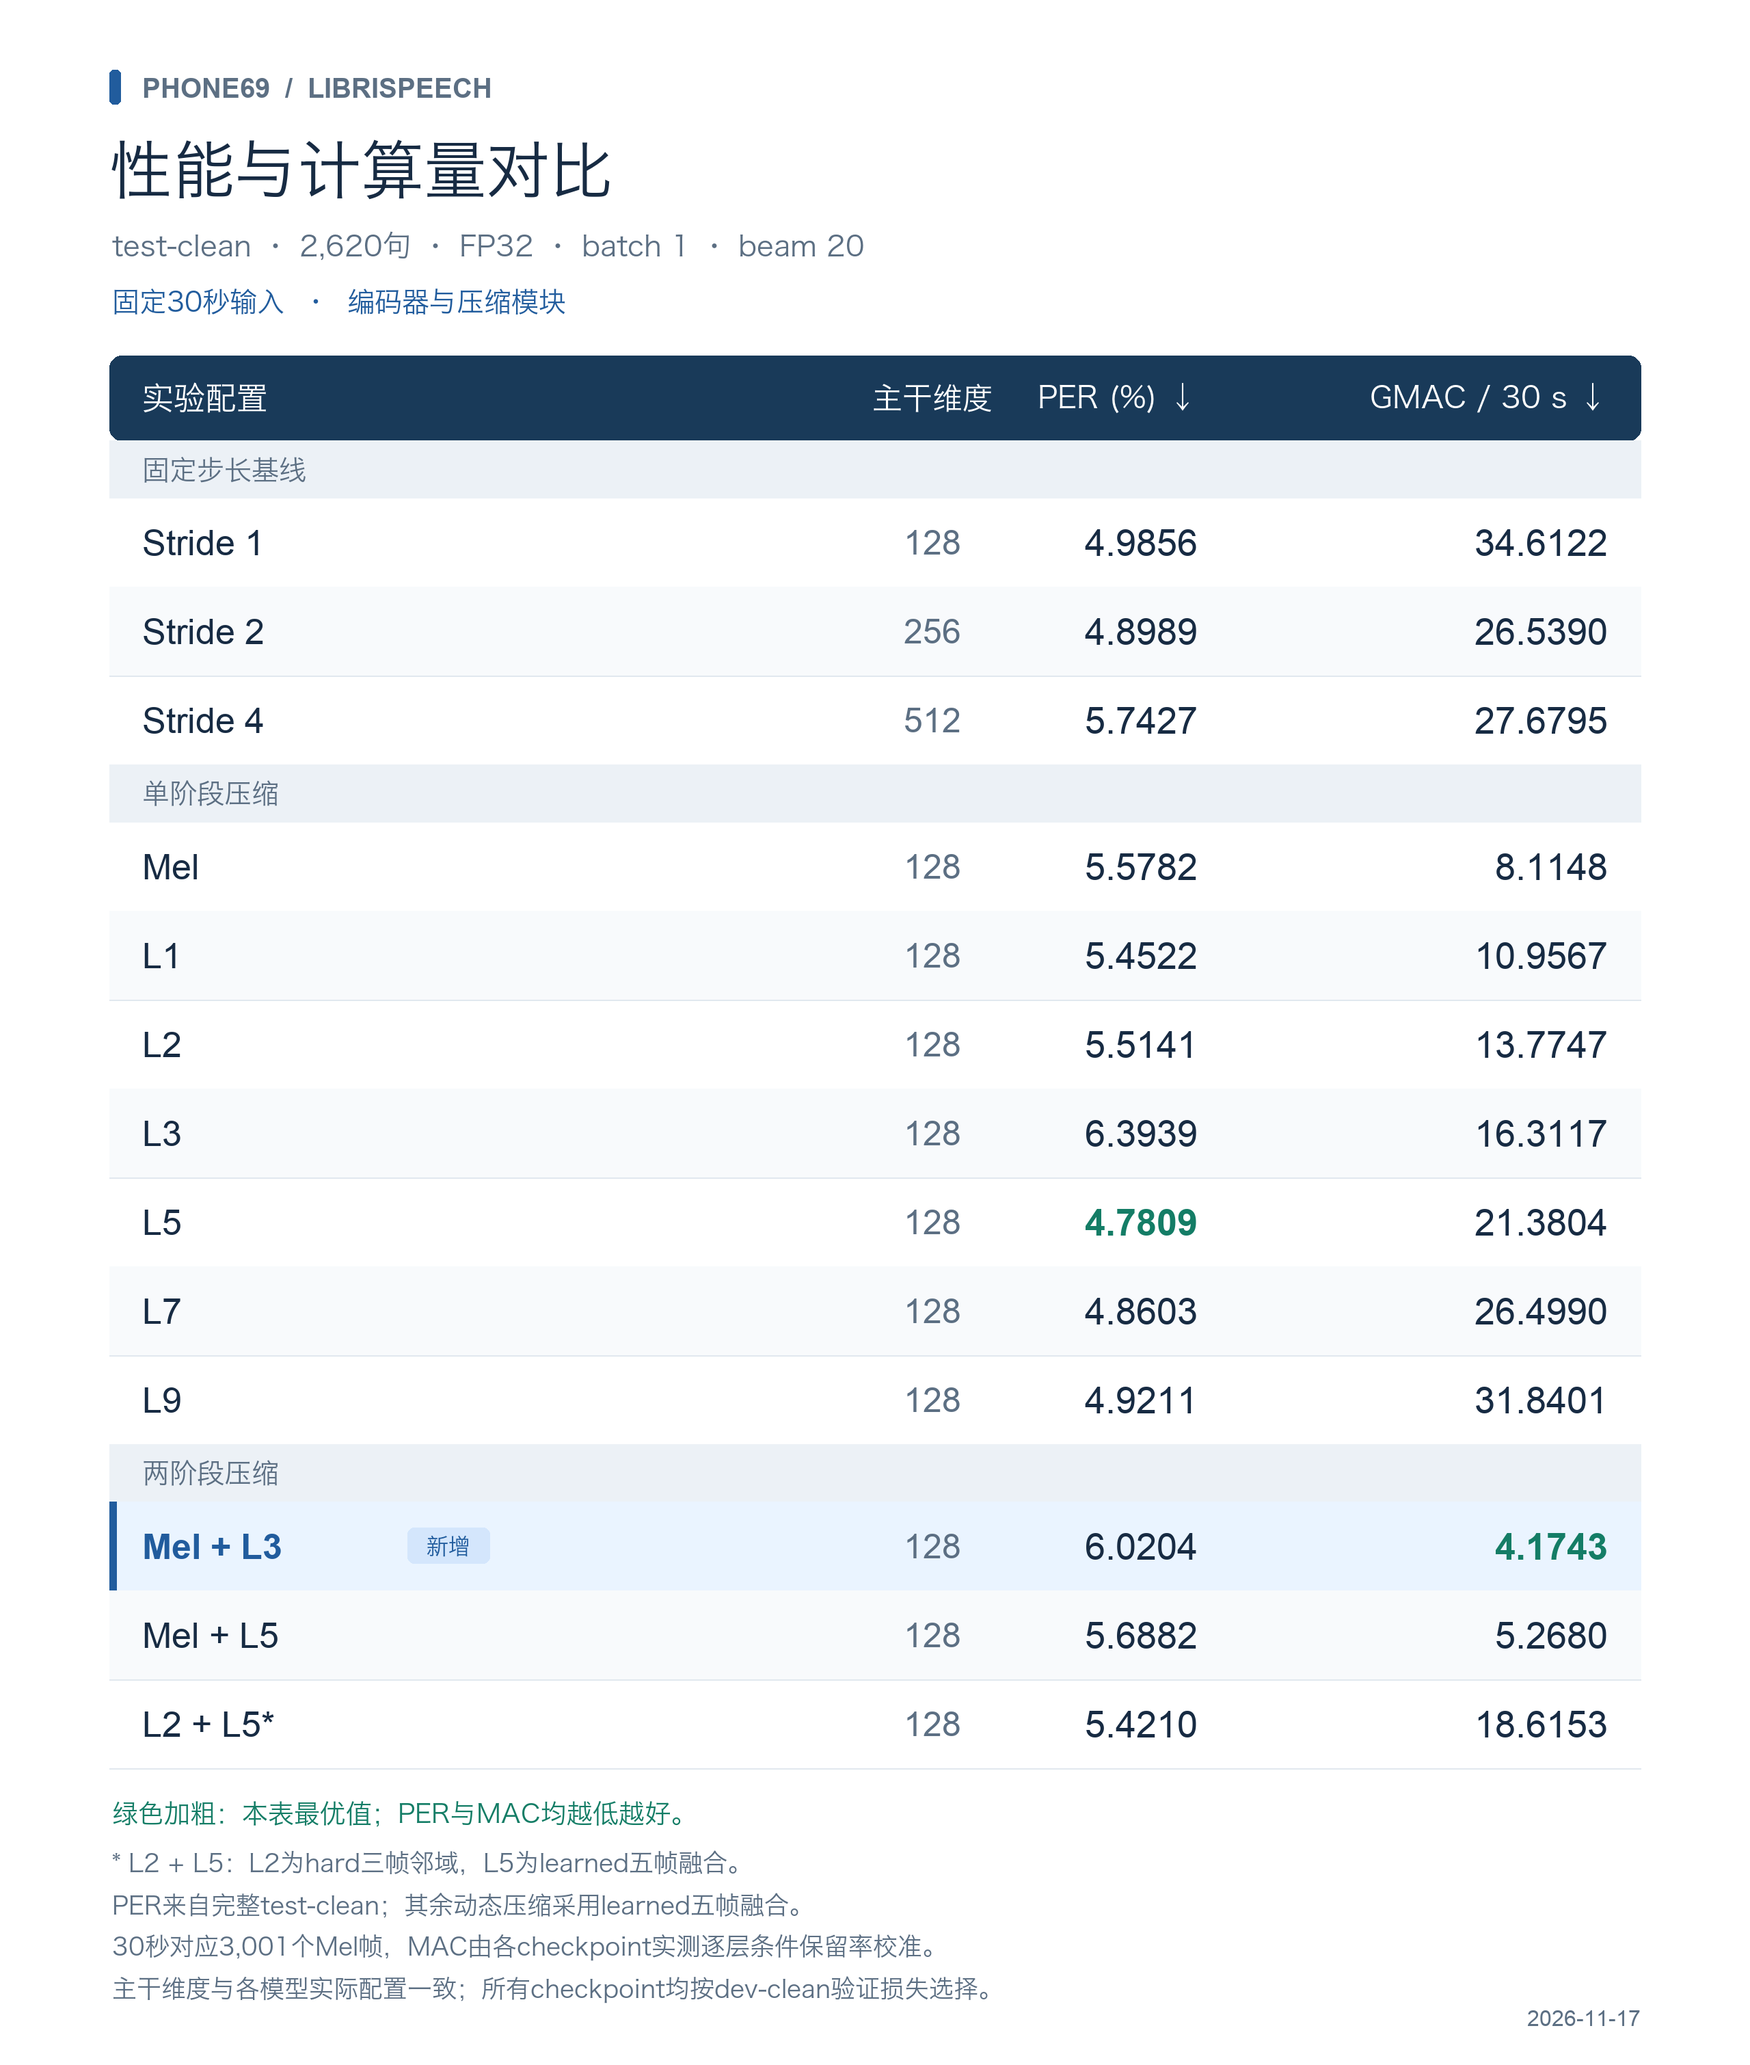
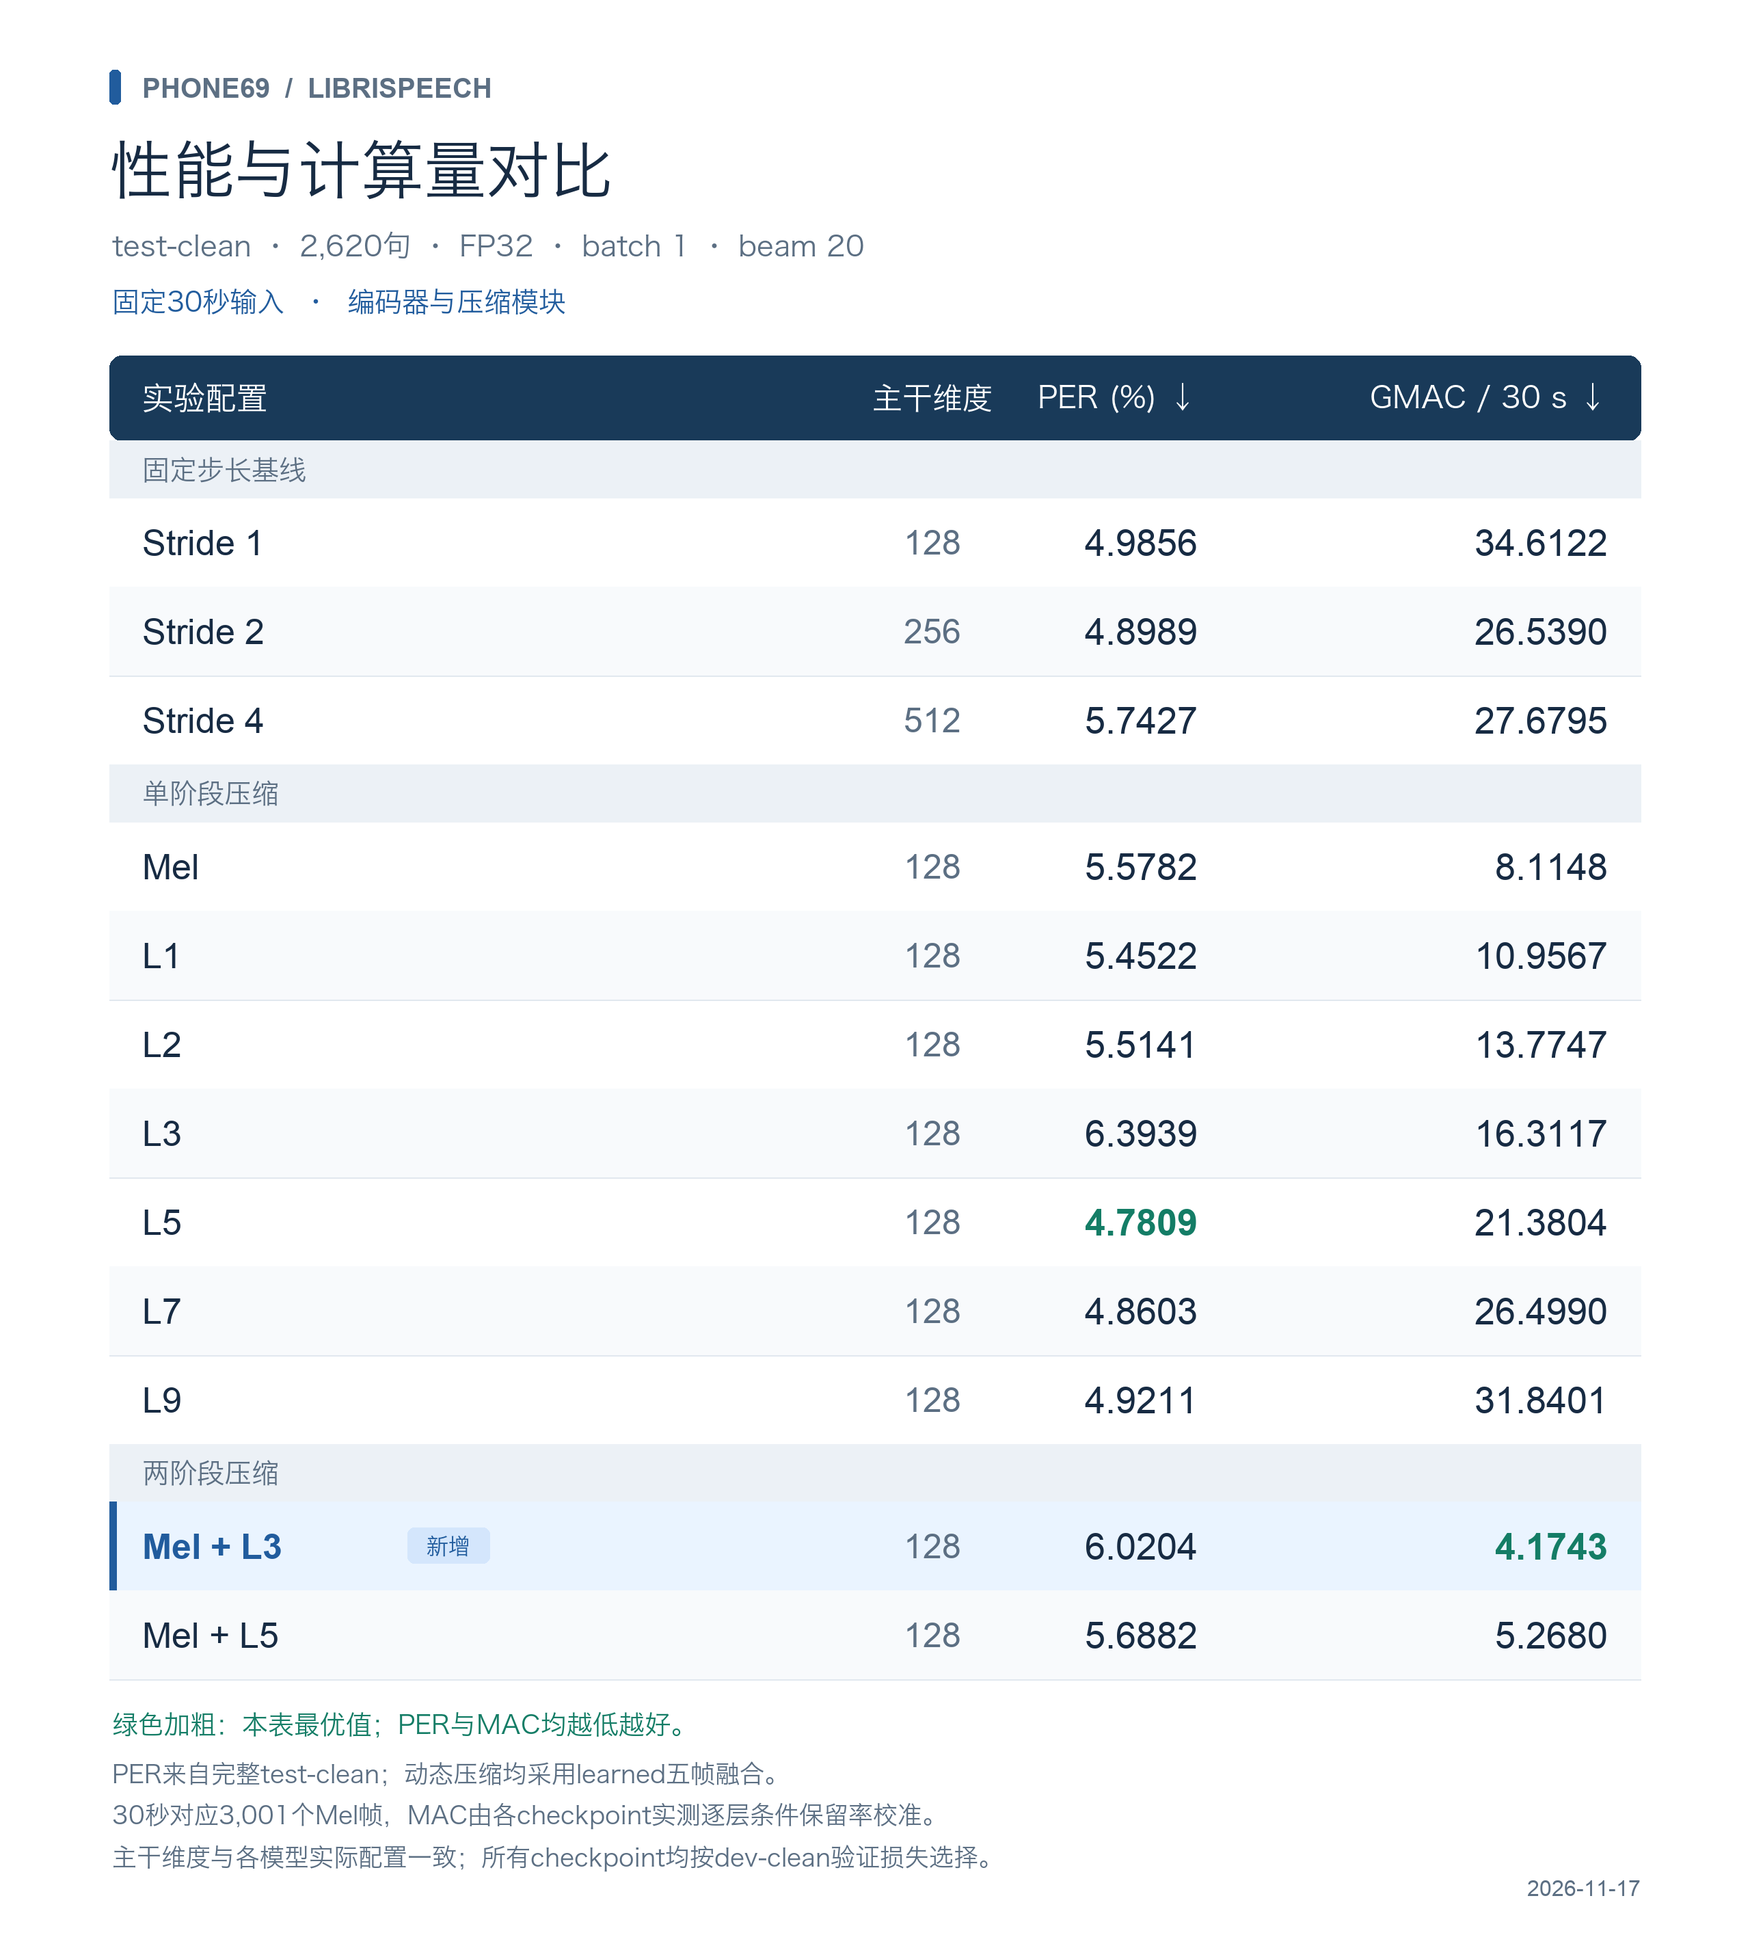
artifacts: remove L2 L5 from the comparison image

diff --git a/scripts/evaluation/render_phone69_results_table.py b/scripts/evaluation/render_phone69_results_table.py
@@ -14,10 +14,11 @@ OUT = ROOT / 'artifacts/research/phone69_paper_results_table_20261117'
 GROUPS = [
     ('固定步长基线', ['S1', 'S2', 'E09']),
     ('单阶段压缩', ['E05', 'P_L1', 'E02', 'P_L3', 'E06', 'E07', 'P_L9']),
-    ('两阶段压缩', ['P_MEL_L3', 'E10', 'E08']),
+    ('两阶段压缩', ['P_MEL_L3', 'E10']),
 ]
+USER_EXCLUSIONS = {'E08': 'L2+L5 removed from the image by the user on 2026-11-17'}
 SCALE = 2
-WIDTH, HEIGHT = 1280, 1510
+WIDTH, HEIGHT = 1280, 1415
 INK, MUTED = '#172B43', '#5C6F83'
 BLUE, GREEN = '#215C9D', '#147D66'
 
@@ -32,7 +33,8 @@ def main():
     selected = [identity for _, group in GROUPS for identity in group]
     expected = {row['id'] for row in rows.values()
                 if row['inclusion'] in ('existing_paper_selection', 'new_placement_comparison')}
-    assert len(selected) == len(set(selected)) == 13 and set(selected) == expected
+    expected -= USER_EXCLUSIONS.keys()
+    assert len(selected) == len(set(selected)) == 12 and set(selected) == expected
     assert source['complete'] and source['duration_seconds'] == 30
     for identity in selected:
         assert rows[identity]['utterances'] == 2620
@@ -102,7 +104,7 @@ def main():
             elif index % 2 == 1:
                 rectangle((80, y, 1200, y + row_height), '#F8FAFC')
             center = y + row_height / 2
-            label = {'E09': 'Stride 4', 'E08': 'L2 + L5*',
+            label = {'E09': 'Stride 4',
                      'P_MEL_L3': 'Mel + L3', 'E10': 'Mel + L5'}.get(identity, row['system'])
             text(label, 104, center, 26, BLUE if new else INK,
                  numeric=label.isascii(), bold=new)
@@ -120,12 +122,11 @@ def main():
             line(y)
 
     text('绿色加粗：本表最优值；PER与MAC均越低越好。', 82, y + 33, 19, GREEN)
-    text('* L2 + L5：L2为hard三帧邻域，L5为learned五帧融合。', 82, y + 69, 18, MUTED)
-    text('PER来自完整test-clean；其余动态压缩采用learned五帧融合。', 82, y + 100, 18, MUTED)
+    text('PER来自完整test-clean；动态压缩均采用learned五帧融合。', 82, y + 69, 18, MUTED)
     text('30秒对应3,001个Mel帧，MAC由各checkpoint实测逐层条件保留率校准。',
-         82, y + 131, 18, MUTED)
+         82, y + 100, 18, MUTED)
     text('主干维度与各模型实际配置一致；所有checkpoint均按dev-clean验证损失选择。',
-         82, y + 162, 18, MUTED)
+         82, y + 131, 18, MUTED)
     text('2026-11-17', 1200, HEIGHT - 34, 16, MUTED, 'right', numeric=True)
 
     OUT.mkdir(parents=True, exist_ok=True)
@@ -135,7 +136,9 @@ def main():
                     script_sha256=sha(__file__), image=path.name, image_sha256=sha(path),
                     duration_seconds=30, scope='encoder and compression major MACs',
                     selection='Original paper comparison and newly evaluated placement comparisons; '
-                              'historical exclusions and training-loss checkpoint diagnosis omitted.',
+                              'historical exclusions, training-loss checkpoint diagnosis, and '
+                              'user-excluded L2+L5 omitted.',
+                    user_exclusions=USER_EXCLUSIONS,
                     selected_ids=selected, models=[rows[i] for i in selected],
                     excluded_ids=[i for i in rows if i not in selected])
     (OUT / 'data.json').write_text(json.dumps(snapshot, ensure_ascii=False, indent=2) + '\n')

diff --git a/docs/phone69_460h_results.md b/docs/phone69_460h_results.md
@@ -2,7 +2,7 @@
 
 2026-11-17最新[全部实验结果表](../artifacts/research/phone69_all_results_20261117/REPORT.md)汇总19份checkpoint的完整test-clean PER和统一30秒编码器＋压缩理论MAC，并单列实际beam20解码成本。新增Mel＋L3：PER **6.020431%**、**4.174300 GMAC／30秒**；L1／L3／L9及L3训练best诊断也已纳入。完整来源和SHA见[机器可读记录](../artifacts/research/phone69_all_results_20261117/results.json)。下文保留原结果快照。
 
-用户要求的[图片版结果表](../artifacts/research/phone69_paper_results_table_20261117/paper_results_30s.png)仅保留13组论文对比项，省略5组历史未入选实验及L3训练best诊断；L3使用原验证best。[图片数据与来源哈希](../artifacts/research/phone69_paper_results_table_20261117/data.json)可复核。
+用户要求的[图片版结果表](../artifacts/research/phone69_paper_results_table_20261117/paper_results_30s.png)仅保留12组论文对比项，省略5组历史未入选实验、L3训练best诊断，并按最新要求移除L2＋L5；L3使用原验证best。[图片数据与来源哈希](../artifacts/research/phone69_paper_results_table_20261117/data.json)可复核。
 
 当前研究使用 corpus PER 与主要乘加量 GMAC／输入音频秒比较质量和计算成本。PER 来自 [2026-11-08 权威评测归档](../papers/phone69_460h_cpu_authoritative_20261108/README.md)，全量计数使用相同 test-clean 的 2,620 句、19,452.480625 秒音频、FP32、batch 1、beam 20。下表为 E01–E06 已完成计数的快照，E07–E10 待补；试测数不填入正式表。
 
